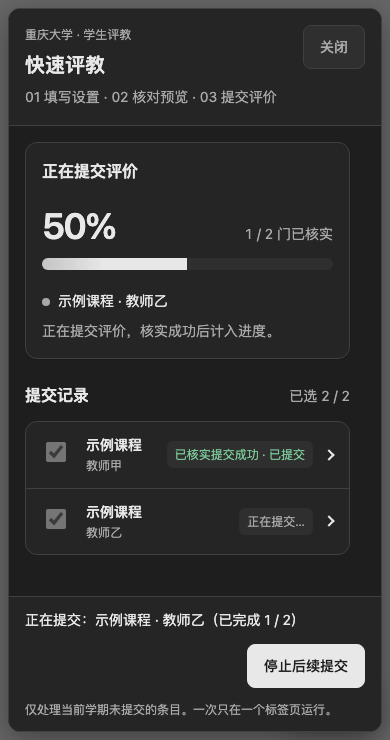
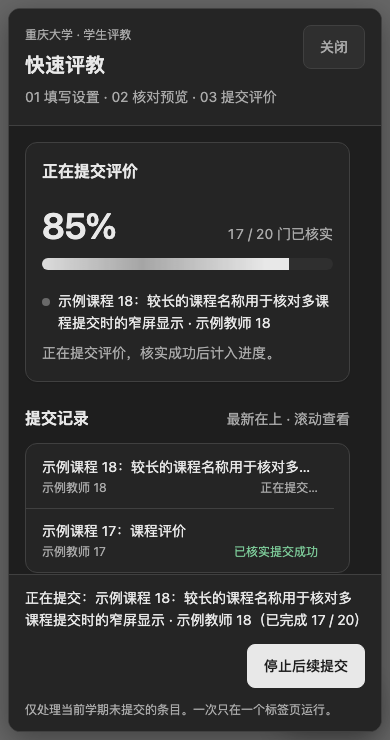
fix: 将提交记录收为两行滚动列表

diff --git a/jxzljc.user.js b/jxzljc.user.js
@@ -132,7 +132,7 @@
       button, input, select, textarea { font: inherit; }
       button { min-height: 44px; padding: var(--space-2) var(--space-4); border: 1px solid var(--border); border-radius: var(--radius); background: var(--surface); color: var(--foreground); font-size: var(--text-sm); font-weight: 500; cursor: pointer; touch-action: manipulation; }
       button:disabled { color: var(--muted-foreground); background: var(--muted); cursor: not-allowed; }
-      :is(button, input, select, textarea, summary):focus-visible { outline: 2px solid var(--ring); outline-offset: 3px; }
+      :is(button, input, select, textarea, summary, #records):focus-visible { outline: 2px solid var(--ring); outline-offset: 3px; }
       .primary:not(:disabled) { color: var(--primary-foreground); background: var(--primary); border-color: var(--primary); }
       @media (hover: hover) { button:not(:disabled):hover { background: var(--accent); } .primary:not(:disabled):hover { background: color-mix(in oklab, var(--primary) 85%, var(--surface)); } }
       button:not(:disabled):active { background: var(--muted); }
@@ -189,6 +189,12 @@
       .result { font-size: var(--text-xs); color: var(--muted-foreground); background: var(--muted); border-radius: var(--radius-sm); padding: var(--space-1) var(--space-2); }
       .result[data-state="success"] { color: var(--success); }
       .result[data-state="error"] { color: var(--destructive); }
+      #records { max-height: calc(var(--space-8) * 4 + 2px); overflow-y: auto; overscroll-behavior: contain; scrollbar-gutter: stable; }
+      #records li { height: calc(var(--space-8) * 2); padding: var(--space-2) var(--space-4); display: grid; align-content: center; }
+      .record-name { font-size: var(--text-sm); overflow: hidden; white-space: nowrap; text-overflow: ellipsis; }
+      .record-detail { display: flex; align-items: baseline; gap: var(--space-2); }
+      #records .teacher { flex: 1; min-width: 0; max-width: none; }
+      #records .result { flex: none; padding: 0; background: none; }
       .progress-heading { display: flex; align-items: baseline; justify-content: space-between; flex-wrap: wrap; gap: var(--space-2); margin: var(--space-6) 0 var(--space-3); }
       #percent { font-size: var(--text-display); line-height: 1; font-weight: 600; letter-spacing: -0.04em; font-variant-numeric: tabular-nums; }
       .progress-track { height: var(--space-3); background: var(--muted); border-radius: var(--radius); overflow: hidden; }
@@ -203,11 +209,13 @@
         :host([data-motion="on"]) .progress-fill { transition: transform 280ms var(--ease-out); }
         :host([data-motion="on"]) #progress-step[data-state="running"] .progress-fill::after { animation: sweep 1.4s linear infinite; }
         :host([data-motion="on"]) #progress-step[data-state="running"] .activity-dot { animation: pulse 1.2s ease-in-out infinite; }
+        :host([data-motion="on"]) #records li:first-child { animation: record-enter 180ms var(--ease-out); }
         :host([data-motion="on"]) button { transition: transform var(--duration-feedback) var(--ease-out); }
         :host([data-motion="on"]) button:not(:disabled):active { transform: scale(0.97); }
       }
       @keyframes sweep { from { transform: translateX(-100%); opacity: 0.1; } 50% { opacity: 0.35; } to { transform: translateX(100%); opacity: 0.1; } }
       @keyframes pulse { 50% { opacity: 0.35; } }
+      @keyframes record-enter { from { transform: translateY(-8px); opacity: 0; } to { transform: translateY(0); opacity: 1; } }
       footer { display: grid; gap: var(--space-3); padding: var(--space-4) var(--space-6); border-top: 1px solid var(--border); background: var(--surface); }
       .feedback { display: grid; gap: var(--space-3); max-height: min(10rem, 25dvh); overflow-y: auto; }
       #status, #error { font-size: var(--text-sm); white-space: pre-wrap; overflow-wrap: anywhere; }
@@ -256,6 +264,10 @@
           <div class="progress-current"><span class="activity-dot" aria-hidden="true"></span><p id="current-course">尚未开始提交课程</p></div>
           <p id="progress-phase" class="description">服务器核实成功后计入进度。</p>
         </section>
+        <section id="records-step" aria-labelledby="records-title" hidden>
+          <div class="section-heading"><h3 id="records-title">提交记录</h3><span class="count">最新在上 · 滚动查看</span></div>
+          <ol id="records" aria-label="提交记录" tabindex="0"></ol>
+        </section>
         <section id="preview-step" aria-labelledby="list-title" hidden>
           <div class="section-heading"><h3 id="list-title" tabindex="-1">待评清单</h3><span class="count" id="count"></span></div>
           <div id="empty" hidden><strong>当前学期没有待评条目</strong><p class="muted">已提交和非待评状态的条目不会列入清单。</p></div>
@@ -300,9 +312,9 @@
     const backwards = next === 'settings';
     step = next;
     $('settings-step').hidden = step !== 'settings';
-    $('preview-step').hidden = step === 'settings';
+    $('preview-step').hidden = step !== 'preview';
     $('progress-step').hidden = step !== 'progress';
-    $('list-title').textContent = step === 'progress' ? '提交记录' : '待评清单';
+    $('records-step').hidden = step !== 'progress';
     $('selection').hidden = step !== 'preview' || !plan?.items.length;
     lock(busy);
     const content = root.querySelector('.content');
@@ -324,6 +336,20 @@
     $('progress-bar').setAttribute('aria-valuenow', String(completed));
     $('progress-bar').setAttribute('aria-valuetext', `${completed} / ${total} 门已核实提交成功`);
     $('progress-fill').style.transform = `scaleX(${completed / total})`;
+  }
+
+  function startRecord(course) {
+    const row = document.createElement('li');
+    const name = paragraph(row, course.name, 'record-name');
+    name.title = course.name;
+    const detail = document.createElement('div');
+    detail.className = 'record-detail';
+    paragraph(detail, course.teacher, 'teacher').title = course.teacher;
+    const result = paragraph(detail, '正在核对…', 'result');
+    row.append(detail);
+    $('records').prepend(row);
+    $('records').scrollTo({ top: 0, behavior: 'instant' });
+    return result;
   }
 
   function lock(value) {
@@ -472,15 +498,15 @@
       teacher.textContent = item.course.teacher;
       heading.append(courseTitle, teacher);
       summary.append(heading);
-      item.result = document.createElement('span');
-      item.result.className = 'result';
-      summary.append(item.result);
+      const score = document.createElement('span');
+      score.className = 'result';
+      summary.append(score);
       const editor = document.createElement('fieldset');
       editor.className = 'editor';
       editor.setAttribute('aria-label', `${name}的评价内容`);
       details.append(summary, editor);
       li.append(selection, details);
-      const updateSummary = () => { item.result.textContent = item.selected ? (item.payload.overallRating ? `${item.payload.overallRating} 分` : '待填写') : '本次不评'; };
+      const updateSummary = () => { score.textContent = item.selected ? (item.payload.overallRating ? `${item.payload.overallRating} 分` : '待填写') : '本次不评'; };
       checkbox.addEventListener('change', () => {
         item.selected = checkbox.checked;
         updateSummary();
@@ -653,30 +679,33 @@
     $('stop').focus({ preventScroll: true });
     let completed = 0;
     let active = null;
+    let result = null;
     let sent = false;
     try {
       if (await currentSemester() !== batch.semester) fail('当前学期已变化，请重新预览。');
       for (const item of batch.items) {
         if (stopping) break;
         active = item;
+        result = startRecord(item.course);
+        $('current-course').textContent = `${item.course.name} · ${item.course.teacher}`;
+        $('progress-phase').textContent = '正在核对课程状态…';
         sent = false;
         if (localStorage.getItem('evaluationState') !== batch.draftRaw) fail('草稿已变化，请重新预览，避免覆盖新填写的内容。');
         const latest = (await courses(batch.semester)).find(c => c.id === item.course.id);
-        if (stopping) break;
+        if (stopping) { result.textContent = '未提交'; break; }
         if (!latest || !pending(latest) || latest.kcxz !== item.course.kcxz || latest.teacher !== item.course.teacher || latest.name !== item.course.name) fail('条目状态已变化，请重新预览。');
         if (localStorage.getItem('evaluationState') !== batch.draftRaw) fail('草稿已变化，请重新预览。');
-        item.result.textContent = '正在提交…';
-        $('current-course').textContent = `${item.course.name} · ${item.course.teacher}`;
+        result.textContent = '正在提交…';
         $('progress-phase').textContent = '正在提交评价，核实成功后计入进度。';
         $('status').textContent = `正在提交：${item.course.name} · ${item.course.teacher}（已完成 ${completed} / ${batch.items.length}）`;
         sent = true;
         await api('/saveEvaluation', { ...item.payload, pjsj: Math.max(0, Math.round((Date.now() - batch.reviewedAt) / 1000)) });
-        item.result.textContent = '正在核实提交结果…';
+        result.textContent = '正在核实…';
         $('progress-phase').textContent = '正在向服务器核实提交结果…';
         const saved = (await courses(batch.semester)).find(c => c.id === item.course.id);
         if (!saved?.completed || saved.status === '未评教' || !saved.status) fail('服务器尚未显示已提交，结果未确认。');
-        item.result.textContent = `已核实提交成功 · ${saved.status}`;
-        item.result.dataset.state = 'success';
+        result.textContent = '已核实提交成功';
+        result.dataset.state = 'success';
         completed++;
         updateProgress(completed, batch.items.length);
       }
@@ -688,9 +717,9 @@
       $('progress-step').dataset.state = 'error';
       $('progress-title').textContent = '提交已停止';
       $('progress-phase').textContent = '进度仅包含已核实成功的课程，请先刷新核实。';
-      if (active) {
-        active.result.textContent = sent ? '结果未确认，请先刷新核实' : '未提交';
-        active.result.dataset.state = 'error';
+      if (result) {
+        result.textContent = sent ? '结果未确认' : '未提交';
+        result.dataset.state = 'error';
       }
       $('status').textContent = `已停止：${completed} / ${batch.items.length} 个条目已核实提交成功。`;
       $('error').textContent = `${active ? `${active.course.name} · ${active.course.teacher}：` : ''}${error.message}${sent ? '\n请求可能已到达服务器；请先刷新核实，再决定是否重新预览。' : ''}`;

diff --git a/docs/design.md b/docs/design.md
@@ -12,6 +12,8 @@
 
 固定头尾和稳定的弹窗高度用于分步切换，内容区独立滚动。初始仅设置面板与「下一步」；预览显示清单、「上一步」和「开始刷课」；提交显示进度与记录，突出停止动作，结束后焦点返回刷新按钮。返回设置保留预览状态，修改统一设置才使其失效。v0.3.0 使用原生 details/summary 展开课程，复选框作为独立控件放在展开控件外；CSS仅绘制展开指示。收起时省略过长名称，展开可读完整名称和教师。选择与编辑共用提交锁；校验失败会展开课程并聚焦错误字段。
 
+提交阶段使用独立的只读记录区，最多两行高度，按处理顺序倒序排列；新课程从顶部进入并将滚动位置重置至顶部，旧记录可通过触屏、滚轮或键盘查看。入口使用180ms淡入与8px位移，沿用键盘与减少动态效果的关闭规则。长课程名和教师名在记录行中省略，完整文本仍提供给辅助技术与标题提示；当前课程在进度卡内完整换行显示。失败记录保留，未开始处理的课程不列入记录。
+
 ## 自动检查
 
 ```sh
@@ -29,7 +31,8 @@ npm test
 ## 2026-10-19 验收范围
 
 - 本地构建、语法与主题同步检查通过；另使用 CQU Design 源码的官方 `checkSource` 检查业务代码（排除原样内嵌的主题区），无违规。
-- 受控 HTTP 的 Chromium 测试：27 项；覆盖分步往返、勾选、全选、逐课编辑的请求内容与草稿保护、收起错误定位、未选项排除校验，以及已发送未回读时不增加进度、部分成功与完成计数、循环结束、键盘与减少动态效果；不连接学校服务器。
+- 受控 HTTP 的 Chromium 测试：28 项；覆盖分步往返、勾选、全选、逐课编辑的请求内容与草稿保护、收起错误定位、未选项排除校验，以及已发送未回读时不增加进度、部分成功与完成计数、循环结束、键盘与减少动态效果；不连接学校服务器。
+- 20门课程回归：记录区始终最多两行高度，当前课程置顶、历史可滚动、下一门自动回顶、全部请求顺序不变；检查1440／390／320px布局与键盘浏览。相同场景在旧版本失败，旧版仍把未处理条目和整份编辑表单显示为提交记录。
 - 320／390／768／1440px × 浅深主题：长标题重排、无横向溢出、操作区可达、44px 控件与16px 输入下限；保存对应截图供视觉检查。
 - 系统主题即时变化及刷新；不会修改学校主题或写入 localStorage。
 - 键盘打开／校验／Enter 预览／Escape 关闭与焦点恢复；慢加载、空清单、窄屏停止、提交失败后的刷新入口；超长服务端错误在反馈区完整滚动显示，恢复按钮仍可见。

diff --git a/README.md b/README.md
@@ -13,7 +13,7 @@ v0.3.0 使用「填写设置 → 核对预览 → 提交进度」分步界面，
 3. 选择满意度档位、综合评分并填写评语。脚本不预选实际评价内容；评语可留空。
 4. 点击右下角「下一步」进入预览。默认勾选全部待评课程，可逐门取消或使用全选框。点击课程行或展开符号，查看完整课程名、教师及评价内容；各项指标、综合评分和评语都可单独调整。已有内容标明「保留草稿」，手动调整后标明「本次修改」。
 5. 可通过「上一步」返回设置。核对已选数量和内容后，点击「开始刷课」提交评价。只提交勾选的课程；如有无效评分，会展开并定位到该字段，整个批次暂不提交。
-6. 提交页显示当前课程、百分比和提交记录。每条提交后重新查询服务器状态，核实成功后才增加进度并继续下一条。
+6. 提交页显示当前课程、百分比和提交记录。记录区最多显示两行，当前课程在最上方，历史记录可滚动查看；开始下一门时自动回到顶部。每条提交后重新查询服务器状态，核实成功后才增加进度并继续下一条。
 
 收起、取消勾选或返回上一步会保留本次编辑。修改统一设置后再进入下一步会重置勾选和逐课修改；刷新页面也不会保存这些临时设置。
 

diff --git a/docs/quick-evaluation-plan.md b/docs/quick-evaluation-plan.md
@@ -15,6 +15,8 @@
 
 交互采用分步界面：初始只有一个设置面板（满意度、综合分、评语），右下角「下一步」切换至预览；预览底部为「上一步」和「开始刷课」。往返保留勾选与逐课编辑，修改统一设置或刷新才重置。切换有方向提示和淡入；提交阶段的动效进度条只按服务器核实成功的课程数量推进，保留停止、部分失败与结果不明确状态。键盘和减少动态效果模式下即时显示。
 
+提交记录与可编辑预览分开：固定两行高度，当前课程置顶，新课程进入时滚回顶部。历史记录继续保留，可用滚轮、触屏或键盘滚动查看；失败项保留在最上方，尚未处理的课程不混入记录。
+
 ## 范围与验收
 
 - 待评范围：仅当前学期从未提交的条目，排除历史学期、已提交、已审核和被驳回条目。
